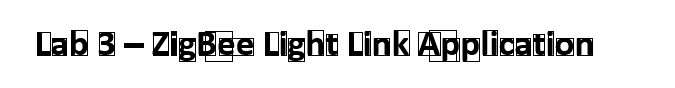
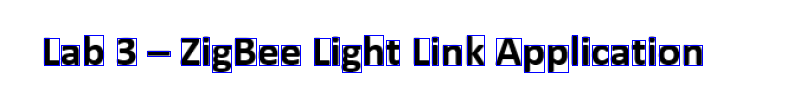
ocr works for images with few letters

Changed region(s): [[0.0311, 0.3182, 0.9022, 0.7045]]

diff --git a/ocr/ocr.py b/ocr/ocr.py
@@ -1,19 +1,37 @@
 from cv2 import cv2
 import pytesseract
-    
+import imutils
+import numpy as np
+import os
+
+from PIL import Image
+from tesserocr import PyTessBaseAPI, RIL
+
+def preprocessImage(image):
+    image = imutils.resize(image, width=800, )
+    gray = cv2.cvtColor(image, cv2.COLOR_BGR2GRAY)
+    thresh = cv2.threshold(gray, 0, 255, cv2.THRESH_BINARY + cv2.THRESH_OTSU)[1]
+    # image = cv2.GaussianBlur(thresh, (3, 3), 0)
+    return image
+
+
 def getLettersFromImage(image):
     return list(map(mapLineToLetter, pytesseract.image_to_boxes(image).splitlines()))
+
 
 def mapLineToLetter(line):
     partitions = line.split(' ')
     return Letter(partitions[0], int(partitions[1]), int(partitions[2]), int(partitions[3]), int(partitions[4]))
 
+
 def drawBoundingBoxedOnImage(image, letters):
     image_height = int(image.shape[0])
     for letter in letters:
         # Rectangle from bottom left to top right
-        cv2.rectangle(image, (letter.x, image_height - letter.y), (letter.width, image_height - letter.height), (0, 0, 255), 1)
+        cv2.rectangle(image, (letter.x, image_height - letter.y), (letter.width, image_height - letter.height),
+                      (0, 0, 255), 1)
     return image
+
 
 class Letter:
 
@@ -21,11 +39,48 @@ class Letter:
         self.letter = letter
         self.x = x
         self.y = y
-        self. width = width
+        self.width = width
         self.height = height
 
     def __str__(self):
-        return '\n' + str(self.letter) + ' at (' + str(self.x) + ',' + str(self.y) +') with ' + str(self.width) + 'x' + str(self.height) + 'px'
+        return '\n' + str(self.letter) + ' at (' + str(self.x) + ',' + str(self.y) + ') with ' + str(
+            self.width) + 'x' + str(self.height) + 'px'
 
     def __repr__(self):
         return self.__str__()
+
+
+def main():
+    filename = 'demo_04'
+    blacklist = ",-;:_"
+    tmp_img = preprocessImage(cv2.imread('example/' + filename + '.png'))
+    cv2.imwrite('example/' + filename + '_processed.png', tmp_img)
+    img = Image.open('example/' + filename + '_processed.png')
+    img.save('example/' + filename + '.tif')
+    image = Image.open('example/' + filename + '.tif')
+    with PyTessBaseAPI() as api:
+        api.SetImage(image)
+        # Blacklist doesnt work yet
+        api.SetVariable("tessedit_char_blacklist", blacklist)
+        boxes = api.GetComponentImages(RIL.SYMBOL, True)
+        print('Found {} image components.'.format(len(boxes)))
+
+    image_array = np.array(image)
+    index = 0
+    for box in boxes:
+        box = box[1]
+        x, y, w, h = box['x'], box['y'], box['w'], box['h']
+        cv2.rectangle(image_array, (x, y), (x + w, y + h), (255, 0, 0), 1)
+
+        # generate png for each letter
+        letter = tmp_img[y:y + h, x:x + w]
+        cv2.imwrite('example/result/letters/' + filename + '/' + str(index) + '.png', letter)
+        index += 1
+
+    cv2.imwrite('example/result/' + filename + '_result.png', image_array)
+    os.remove('example/' + filename + '.tif')
+    os.remove('example/' + filename + '_processed.png')
+
+
+if __name__ == "__main__":
+    main()

diff --git a/ocr/test_ocr.py b/ocr/test_ocr.py
@@ -1,14 +1,16 @@
-from ocr import getLettersFromImage, drawBoundingBoxedOnImage
+from ocr import getLettersFromImage, drawBoundingBoxedOnImage, preprocessImage
 from cv2 import cv2
 
 def test_demo_01():
-    test_image = cv2.cvtColor(cv2.imread('ocr/example/demo_01.png'), cv2.COLOR_BGR2GRAY)
+    img = cv2.imread('ocr/example/demo_01.png')
+    test_image = preprocessImage(img)
     letters = getLettersFromImage(test_image)
     image_with_bounding_boxes = drawBoundingBoxedOnImage(test_image, letters)
     cv2.imwrite('ocr/example/result/demo_01_result.png', image_with_bounding_boxes)
 
 def test_demo_02():
-    test_image = cv2.cvtColor(cv2.imread('ocr/example/demo_02.png'), cv2.COLOR_BGR2GRAY)
+    img = cv2.imread('ocr/example/demo_02.png')
+    test_image = preprocessImage(img)
     letters = getLettersFromImage(test_image)
     image_with_bounding_boxes = drawBoundingBoxedOnImage(test_image, letters)
     cv2.imwrite('ocr/example/result/demo_02_result.png', image_with_bounding_boxes)
